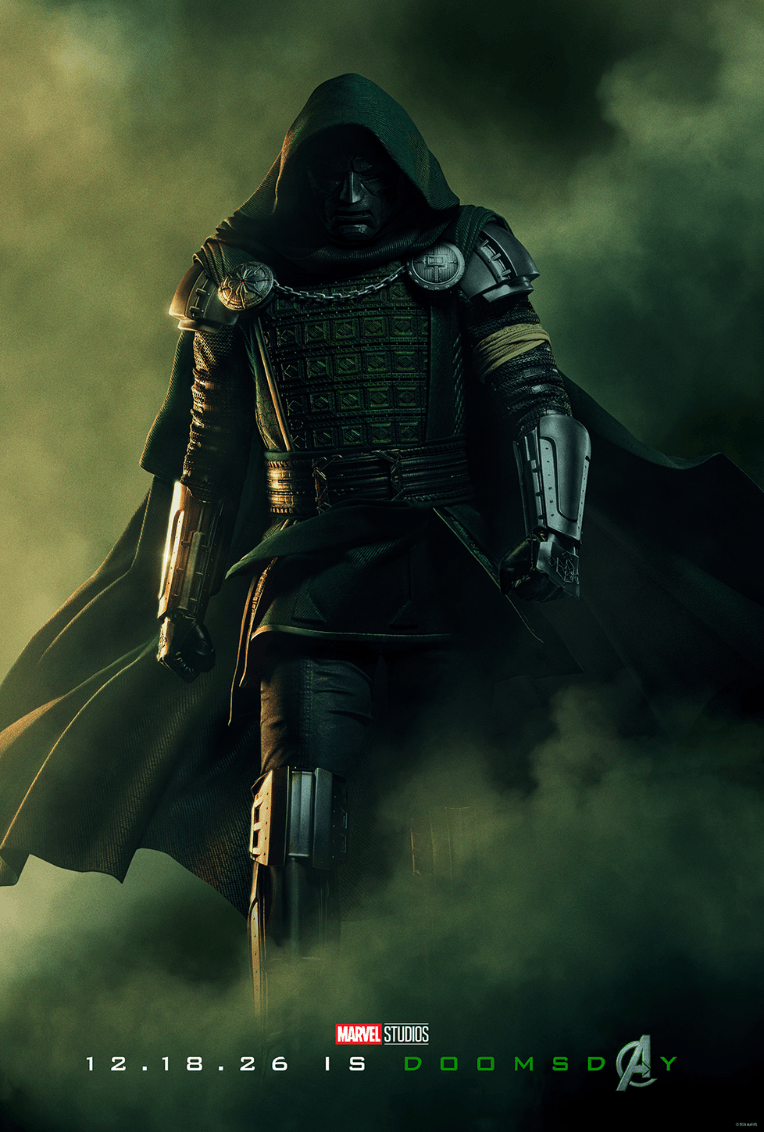
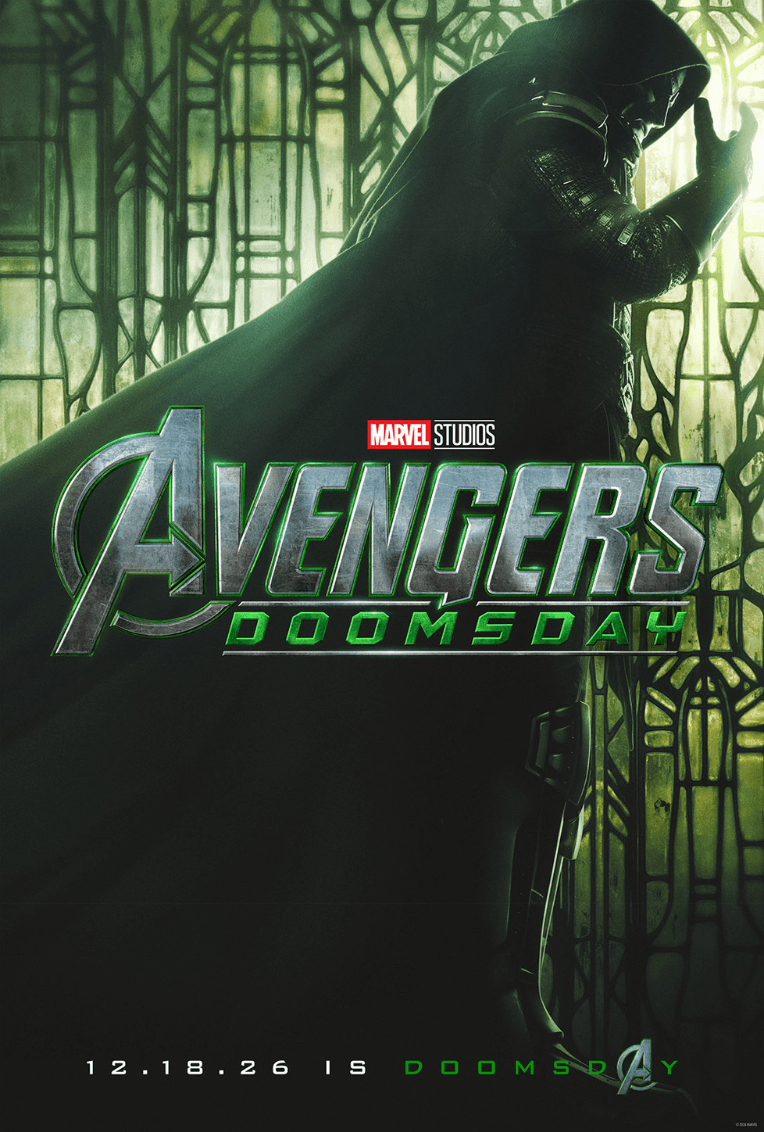
chore: update avengers doomsday poster

diff --git a/pages/upcoming/tv/marvel/x-men 97/x-men.html b/pages/upcoming/tv/marvel/x-men 97/x-men.html
@@ -407,9 +407,18 @@
                         </a>
                       </div>
                       <div class="col-3">
-                        <a href="./still.png" data-fancybox="gallery">
+                        <a href="./still2.png" data-fancybox="gallery">
                           <img
-                            src="./still.png"
+                            src="./still2.png"
+                            class="img-fluid rounded gallery-hover"
+                            alt="Gallery Image"
+                          />
+                        </a>
+                      </div>
+                      <div class="col-3">
+                        <a href="./still1.png" data-fancybox="gallery">
+                          <img
+                            src="./still1.png"
                             class="img-fluid rounded gallery-hover"
                             alt="Gallery Image"
                           />

diff --git a/pages/upcoming/movies/marvel/avengers doomsday/avengers-doomsday.html b/pages/upcoming/movies/marvel/avengers doomsday/avengers-doomsday.html
@@ -412,6 +412,15 @@
                           />
                         </a>
                       </div>
+                      <div class="col-3">
+                        <a href="./still2.png" data-fancybox="gallery">
+                          <img
+                            src="./still2.png"
+                            class="img-fluid rounded gallery-hover"
+                            alt="Gallery Image"
+                          />
+                        </a>
+                      </div>
                     </div>
                   </div>
                 </div>
